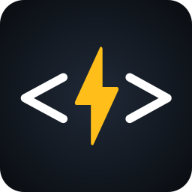
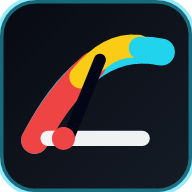
Refresh Apex Tune Hub branding

diff --git a/src/components/layout/logo.tsx b/src/components/layout/logo.tsx
@@ -1,18 +1,60 @@
 'use client';
 
 import { cn } from '@/lib/utils';
-import { GaugeIcon } from 'lucide-react';
 
 export function Logo({ className }: { className?: string }) {
   return (
     <span
       aria-label="Apex Tune Hub"
       className={cn(
-        'inline-flex size-8 items-center justify-center rounded-md border border-amber-300/40 bg-zinc-950 text-amber-300 shadow-[0_0_24px_rgba(252,211,77,0.22)]',
+        'inline-flex size-8 items-center justify-center rounded-md border border-cyan-300/35 bg-zinc-950 shadow-[0_0_24px_rgba(6,182,212,0.24)]',
         className
       )}
     >
-      <GaugeIcon className="size-4" />
+      <svg
+        viewBox="0 0 32 32"
+        role="img"
+        aria-hidden="true"
+        className="size-6"
+      >
+        <defs>
+          <linearGradient
+            id="apex-logo-track"
+            x1="5"
+            x2="27"
+            y1="25"
+            y2="7"
+            gradientUnits="userSpaceOnUse"
+          >
+            <stop offset="0" stopColor="#ef4444" />
+            <stop offset="0.52" stopColor="#facc15" />
+            <stop offset="1" stopColor="#22d3ee" />
+          </linearGradient>
+        </defs>
+        <path
+          d="M5.5 23.5C10.6 14.8 15 9.8 20.4 8.4c2.6-.7 4.8-.3 6.1.2"
+          fill="none"
+          stroke="url(#apex-logo-track)"
+          strokeLinecap="round"
+          strokeWidth="4.4"
+        />
+        <path
+          d="M8.4 23.4h15.2"
+          fill="none"
+          stroke="#f8fafc"
+          strokeLinecap="round"
+          strokeWidth="2.4"
+        />
+        <path
+          d="M17.1 9.7l-5.7 13.7"
+          fill="none"
+          stroke="#020617"
+          strokeLinecap="round"
+          strokeWidth="2.1"
+        />
+        <circle cx="22.4" cy="8.1" r="2.2" fill="#22d3ee" />
+        <circle cx="10.2" cy="23.4" r="2" fill="#ef4444" />
+      </svg>
     </span>
   );
 }

diff --git a/docs/apex-6-month-growth-plan.md b/docs/apex-6-month-growth-plan.md
@@ -1,0 +1,86 @@
+# Apex Tune Hub 6 个月增长计划
+
+目标：把 Apex Tune Hub 从 FH6 调校 MVP 做成稳定的赛车游戏工具站，收入结构以 AdSense、联盟、轻会员和邮件列表为主。
+
+## 第 1 个月：品牌、收录、基础信任
+
+核心目标：让搜索引擎和用户清楚知道这是 FH6 调校工具站。
+
+- 完成 Logo、favicon、OG 图、首页第一屏和导航统一。
+- 保持 sitemap、robots、Google Search Console、Bing Webmaster、IndexNow 正常。
+- 每周检查 GSC：收录、曝光、点击、抓取问题。
+- 优先手动提交 10 个核心页面：首页、FH6 hub、Guides、Cars、Weekly、Tune Calculator、Drift、Steam Deck、Supra、Best JDM。
+- KPI：50+ 页面收录，GSC 每天有曝光，首页和工具页无重大体验问题。
+
+## 第 2 个月：FH6 长尾内容集群
+
+核心目标：建立第一批可排名的长尾页面。
+
+- 发布 30-50 篇高意图页面。
+- 页面类型：drift setup、road racing setup、wheel settings、controller settings、Steam Deck settings、starter cars、weekly playlist notes。
+- 每篇页面必须包含：参数表、推荐设置、FAQ、内链、工具入口。
+- 避免纯 AI 文章，重点做可复用数据和实际调校逻辑。
+- KPI：GSC 曝光稳定增长，至少 10 个页面进入前 50 名。
+
+## 第 3 个月：车辆资料库
+
+核心目标：把 car database 做成站点护城河。
+
+- 扩展 100-200 个车辆页面。
+- 每辆车包含：适合赛事、推荐等级、Road/Drift/Drag/Dirt 基础设置、优缺点、常见问题。
+- 做车系集合页：JDM、starter cars、best drift cars、best road racing cars、rally cars。
+- 加强内链：车辆页互链到工具、指南、每周挑战。
+- KPI：车辆页开始带来长尾点击，工具页被更多页面导流。
+
+## 第 4 个月：变现测试
+
+核心目标：验证哪些页面有商业价值。
+
+- 申请 AdSense，先放低干扰广告位。
+- 加联盟方向：Xbox Game Pass、赛车方向盘、手柄、赛车座椅、PC 配件。
+- 做 3-5 个 buyer-intent 页面：best wheel for FH6、best controller settings、Steam Deck guide、budget racing setup。
+- 邮件列表开始每周发一次 FH6 tuning update。
+- KPI：有第一笔广告或联盟收入，邮件订阅稳定增长。
+
+## 第 5 个月：高级工具和社区功能
+
+核心目标：让网站不只是内容站，而是玩家会反复使用的工具。
+
+- Tune Preset 保存和分享链接。
+- 每周 Playlist 推荐车辆和调校组合。
+- 用户投稿 tune code / setup notes。
+- 高级功能雏形：收藏车辆、导出设置、比较 presets。
+- KPI：回访用户增加，工具页停留时间明显高于文章页。
+
+## 第 6 个月：放大赢家页面
+
+核心目标：把前 5 个月的数据变成稳定收益。
+
+- 用 GSC 找出曝光高但 CTR 低的页面，重写标题和描述。
+- 扩写点击高的页面，砍掉长期无曝光的薄页面。
+- 把热门页面做成系列：Best S1 Cars、Best Drift Cars、Weekly Playlist Tune Pack。
+- 轻会员测试：$5-9/月，提供保存 presets、热门 tune pack、每周推荐表。
+- KPI：稳定自然搜索流量，收入来源至少包含广告和联盟，会员功能有首批测试用户。
+
+## 每周固定动作
+
+- 周一：看 GSC / Bing 数据，记录增长。
+- 周二：更新 3-5 个旧页面，补 FAQ 和内链。
+- 周三：发布 2-3 个新长尾页面。
+- 周四：扩展车辆资料库。
+- 周五：检查工具页体验和转化入口。
+- 周末：准备下周 weekly playlist / newsletter。
+
+## 收入优先级
+
+1. AdSense：适合工具页和指南页，3-6 个月内最现实。
+2. Affiliate：方向盘、手柄、Game Pass、PC 配件，单次收益比广告高。
+3. Newsletter sponsorship：有邮件列表后再谈。
+4. Membership：不要太早强推，等工具有保存、分享、导出价值后再上。
+
+## 风险控制
+
+- 不使用 Forza 官方 Logo、封面和商标做品牌主体。
+- 域名和品牌继续使用 Apex Tune Hub，不做官方暗示。
+- 页面底部保留 independent / not affiliated 声明。
+- 内容不要依赖未证实发布日期和假数据；未知内容标注为 launch prep 或 expected workflow。
